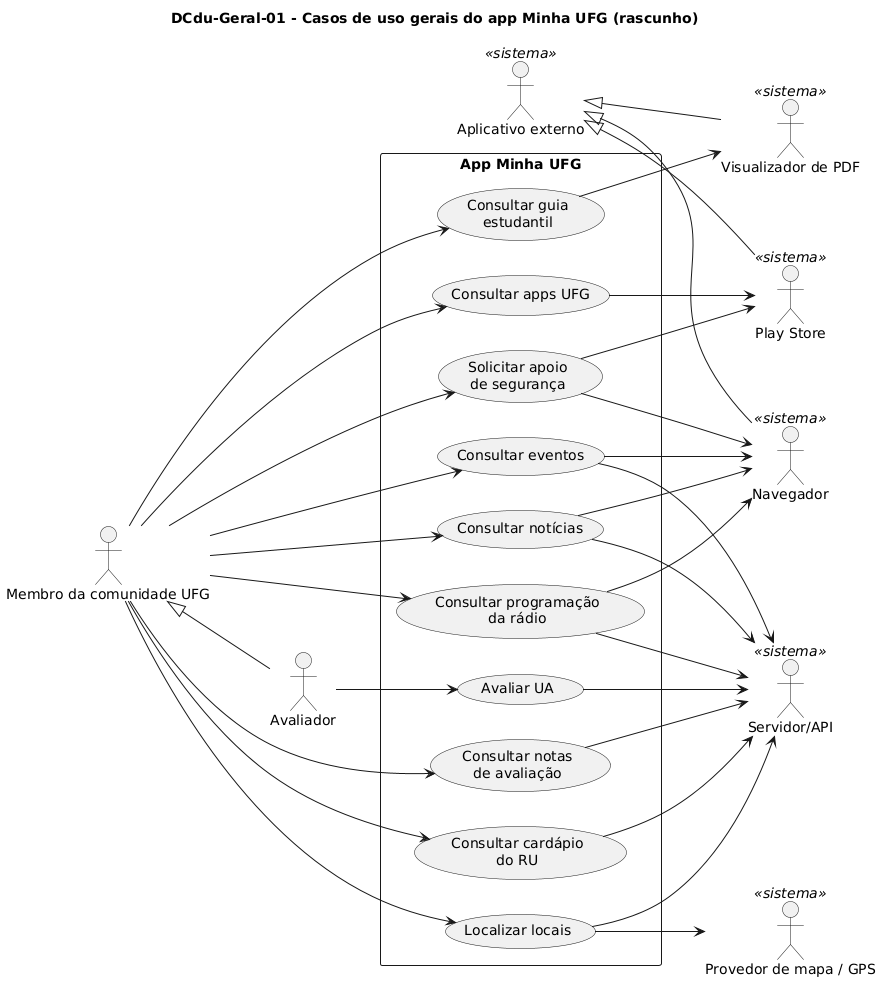
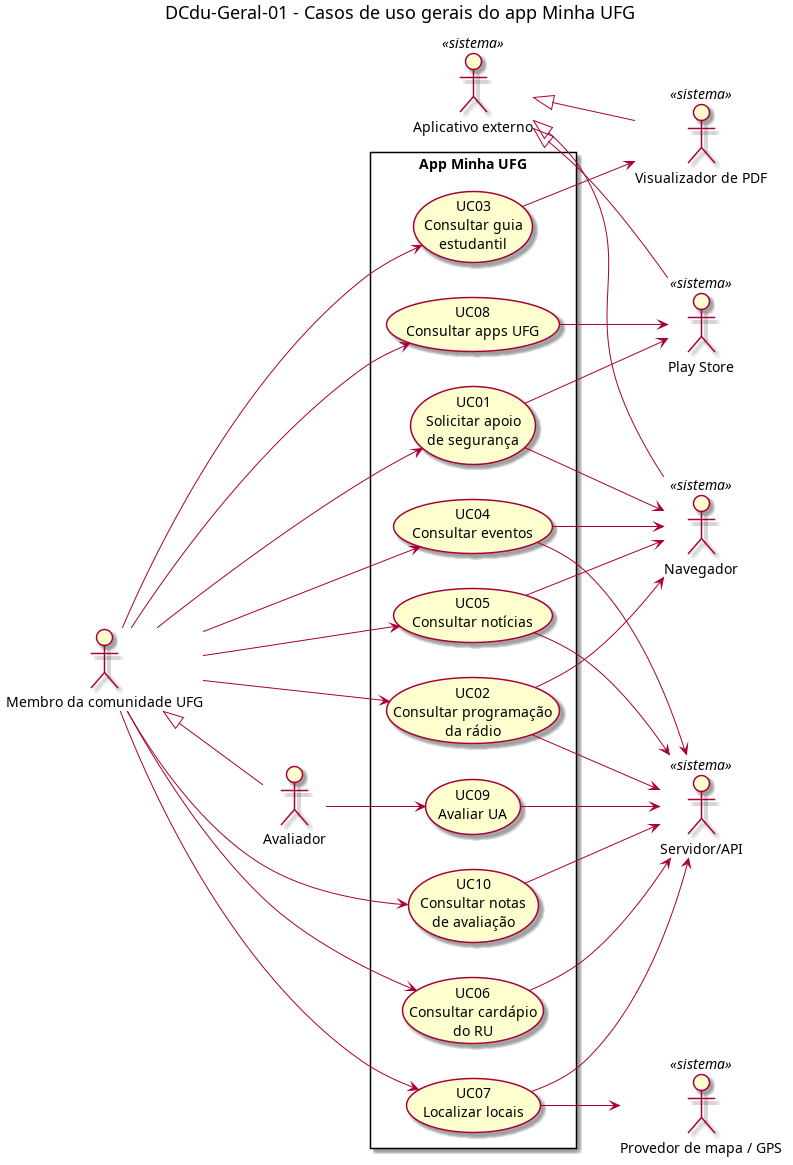
D-INT-03: fechamento do DCdu, DPac e DImp gerais e renumeração dos casos de uso

diff --git a/Geral/DCdu-Geral-01.md b/Geral/DCdu-Geral-01.md
@@ -6,7 +6,7 @@
 | **Título** | Casos de uso gerais do app Minha UFG |
 | **Autor(a)** | Pessoa D |
 | **Revisor(a)** | Pessoa C |
-| **Status** | Em produção (rascunho; versão final no D-INT-03) |
+| **Status** | Em revisão |
 | **Rastreia para** | `DCdu-Seguranca-01`, `DCdu-Radio-01`, `DCdu-Guia-01`, `DCdu-Eventos-01`, `DCdu-Noticias-01`, `DCdu-RU-01`, `DCdu-Locais-01`, `DCdu-AppsUFG-01`, `DCdu-AvalRegistrar-01`, `DCdu-AvalConsultar-01`, `DImp-Geral-01`, `DPac-Geral-01` |
 
 ## Diagrama
@@ -37,6 +37,23 @@ O ator abstrato Aplicativo externo agrupa todo redirecionamento para fora do app
 - A tela inicial é navegação, não objetivo do usuário; por isso não é caso de uso. Ela é modelada em `DIhc-Inicio-01` e `DEst-Inicio-01`.
 - O Painel web não interage com o app: ele alimenta o Servidor/API (cardápio, eventos, notícias, programação, dimensões e questões da avaliação). Por isso aparece só em `DImp-Geral-01`.
 - Apps UFG não acessa o Servidor/API, pois a lista é fixa (três apps).
+
+**Correspondência com os DCdu detalhados.** Cada caso de uso detalhado tem o código `UCnn.m`, em que `nn` é o macro deste diagrama (versão final fechada na integração, D-INT-03, em 02/11/2026). O nome do macro resume os casos detalhados e não precisa repeti-los.
+
+| Macro | DCdu detalhado | Casos de uso detalhados |
+|---|---|---|
+| UC01 Solicitar apoio de segurança | `DCdu-Seguranca-01` | UC01.1 Acessar central de segurança via web; UC01.2 Baixar aplicativo de segurança na Play Store |
+| UC02 Consultar programação da rádio | `DCdu-Radio-01` | UC02.1 Consultar programação da rádio; UC02.2 Trocar o dia da programação; UC02.3 Ouvir a rádio |
+| UC03 Consultar guia estudantil | `DCdu-Guia-01` | UC03.1 Consultar guia estudantil |
+| UC04 Consultar eventos | `DCdu-Eventos-01` | UC04.1 Consultar eventos por regional e data; UC04.2 Trocar o mês do calendário; UC04.3 Abrir a página do evento |
+| UC05 Consultar notícias | `DCdu-Noticias-01` | UC05.1 Consultar notícias de uma regional; UC05.2 Abrir a notícia |
+| UC06 Consultar cardápio do RU | `DCdu-RU-01` | UC06.1 Consultar o cardápio de uma refeição; UC06.2 Escolher o dia da semana |
+| UC07 Localizar locais | `DCdu-Locais-01` | UC07.1 Consultar lista de locais; UC07.2 Visualizar local no mapa; UC07.3 Centralizar em minha localização atual |
+| UC08 Consultar apps UFG | `DCdu-AppsUFG-01` | UC08.1 Visualizar catálogo de apps UFG; UC08.2 Abrir aplicativo na Play Store |
+| UC09 Avaliar UA | `DCdu-AvalRegistrar-01` | UC09.1 Escolher a unidade acadêmica a avaliar; UC09.2 Responder o questionário de qualidade; UC09.3 Enviar a avaliação; UC09.4 Validar o preenchimento |
+| UC10 Consultar notas de avaliação | `DCdu-AvalConsultar-01` | UC10.1 Consultar a nota da UFG e as médias por área CNPq; UC10.2 Consultar as notas das UAs de uma área; UC10.3 Consultar as notas de uma UA por dimensão |
+
+Os atores e as ligações com os atores secundários são os mesmos nos DCdu detalhados.
 
 ## Referências
 

diff --git a/Geral/DPac-Geral-01.md b/Geral/DPac-Geral-01.md
@@ -7,7 +7,7 @@
 | **Autor(a)** | Pessoa D |
 | **Revisor(a)** | Pessoa C |
 | **Status** | Em revisão |
-| **Rastreia para** | `DCdu-Geral-01`, `DImp-Geral-01`, `DCmp-Comum-01`, `DCmp-Seguranca-01`, `DCmp-Radio-01`, `DCmp-Guia-01`, `DCmp-Eventos-01`, `DCmp-Noticias-01`, `DCmp-RU-01`, `DCmp-Locais-01`, `DCmp-AppsUFG-01`, `DCmp-AvalRegistrar-01`, `DCmp-AvalConsultar-01`, `DIhc-Inicio-01` |
+| **Rastreia para** | `DCdu-Geral-01`, `DImp-Geral-01`, `DCmp-Comum-01`, `DCmp-Seguranca-01`, `DCmp-Radio-01`, `DCmp-Guia-01`, `DCmp-Eventos-01`, `DCmp-Noticias-01`, `DCmp-RU-01`, `DCmp-Locais-01`, `DCmp-AppsUFG-01`, `DCmp-AvalRegistrar-01`, `DCmp-AvalConsultar-01`, `DIhc-Inicio-01`, `DDados-Geral-01`, `DD-Geral-01` |
 
 ## Diagrama
 
@@ -25,7 +25,7 @@ O app é organizado em um pacote por funcionalidade, um pacote `Inicio` e um pac
 | `Seguranca`, `Locais`, `AppsUFG` | Funcionalidades da fatia B | B |
 | `Eventos`, `RU`, `Noticias`, `AvalRegistrar` | Funcionalidades da fatia C | C |
 | `Radio`, `Guia`, `AvalConsultar` | Funcionalidades da fatia D | D |
-| `Comum` | Componentes compartilhados (`DCmp-Comum-01`) | D |
+| `Comum` | Componentes compartilhados (`DCmp-Comum-01`) e entidades compartilhadas: `Regional` e `Campus` (dono da definição: C) e `Coordenada` (D) | D |
 
 **Dependências.**
 
@@ -39,7 +39,7 @@ O app é organizado em um pacote por funcionalidade, um pacote `Inicio` e um pac
 1. *A tela inicial fica num pacote `Inicio` próprio, não em `Comum`.* `Inicio` depende de todas as funcionalidades, enquanto `Comum` é dependido por elas. Juntá-los criaria dependência circular entre `Comum` e cada funcionalidade.
 2. *`Comum` não depende de nenhum outro pacote do app.* Isso o mantém reutilizável e estável: mudanças nas funcionalidades nunca o afetam.
 3. *Não há dependência entre pacotes de funcionalidades atuais.* Cada funcionalidade da versão 3.1.1 é independente; só a evolução (avaliação) depende de `Locais`.
-4. *Pendente para a integração (D-INT-03):* a localização das entidades Regional e Campus, de dono C, usadas por `Eventos`, `Noticias` e `Locais`. Novas dependências entre pacotes reveladas pelos DCmp de A, B e C também serão incorporadas nessa etapa.
+4. *`Regional` e `Campus` ficam no `Comum`* (integração, 02/11/2026), pois são usadas por `Eventos`, `Noticias` e `Locais`; a Pessoa C continua dona da definição (`DD-Eventos-01`). As associações são navegáveis só a partir das funcionalidades (`Evento → Regional`, `Noticia → Regional`, `Local → Campus`), então o `Comum` continua sem depender de nenhum pacote. A integração (`DDados-Geral-01`) não revelou outras dependências entre pacotes.
 
 ## Referências
 

diff --git a/IA/registro-D.md b/IA/registro-D.md
@@ -519,3 +519,28 @@ ANTHROPIC. **Claude Code**. Assistente de IA. Disponível em: https://claude.com
 ### Referência (ABNT)
 
 ANTHROPIC. **Claude Code**. Assistente de IA. Disponível em: https://claude.com/claude-code. Acesso em: 2 nov. 2026.
+
+## D-IA-21 – Fechamento dos modelos gerais (D-INT-03)
+
+- **IA:** Anthropic. Claude Code (Claude Opus 5.5). Assistente de IA.
+- **URL:** https://claude.com/claude-code
+- **Data de acesso:** 2 de novembro de 2026.
+- **Contexto fornecido:** `DCdu-Geral-01`, `DPac-Geral-01`, `DImp-Geral-01`, DCdu detalhados de B, C e D, DCla de Eventos, Notícias e Locais.
+- **Itens produzidos:** `DCdu-Geral-01` final (códigos dos macros e tabela de correspondência); renumeração dos casos de uso de Segurança (UC01.n), Rádio (UC02.n), Guia (UC03.1), Locais (UC07.n) e Apps UFG (UC08.n) nos DCdu e DAtv; `DPac-Geral-01` com `Regional` e `Campus` no Comum; `DImp-Geral-01` sem mudança.
+- **Uso da resposta:** a conferir pela Pessoa D; a Pessoa D avisa B e C da renumeração.
+
+### Prompt 1
+
+> já podemos ir para d-int-03? ou falta algo
+
+### Prompt 2
+
+> pode começar a d-int-03
+
+### Prompt 3
+
+> pode renumerar para ficar coerente. aviso o time depois. siga em frente
+
+### Referência (ABNT)
+
+ANTHROPIC. **Claude Code**. Assistente de IA. Disponível em: https://claude.com/claude-code. Acesso em: 2 nov. 2026.

diff --git a/Locais/DAtv-Locais-03.md b/Locais/DAtv-Locais-03.md
@@ -1,9 +1,9 @@
-# DAtv-Locais-03 – Atividades de UC03: centralizar em minha localização atual
+# DAtv-Locais-03 – Atividades de UC07.3: centralizar em minha localização atual
 
 | Campo | Valor |
 |---|---|
 | **Código** | `DAtv-Locais-03` |
-| **Título** | Atividades de UC03: centralizar em minha localização atual |
+| **Título** | Atividades de UC07.3: centralizar em minha localização atual |
 | **Autor(a)** | Maicon Brendo da Silva |
 | **Revisor(a)** | Revisor(a) a definir |
 | **Status** | Em produção |
@@ -17,7 +17,7 @@ Fonte: [`DAtv-Locais-03.puml`](DAtv-Locais-03.puml)
 
 ## Descrição
 
-O diagrama detalha o fluxo de atividades do caso de uso `UC03: Centralizar em minha localização atual`, modelando a integração do app Minha UFG com os sensores de geolocalização do aparelho móvel e com o provedor de mapa, estruturado em quatro raias: **Usuário**, **App**, **Android / GPS** e **Provedor de Mapa**.
+O diagrama detalha o fluxo de atividades do caso de uso `UC07.3: Centralizar em minha localização atual`, modelando a integração do app Minha UFG com os sensores de geolocalização do aparelho móvel e com o provedor de mapa, estruturado em quatro raias: **Usuário**, **App**, **Android / GPS** e **Provedor de Mapa**.
 
 ### Dinâmica das atividades
 

diff --git a/AppsUFG/DCdu-AppsUFG-01.md b/AppsUFG/DCdu-AppsUFG-01.md
@@ -26,7 +26,7 @@ O diagrama detalha o caso de uso macro UC08 "Consultar apps UFG" do `DCdu-Geral-
 
 ---
 
-### UC01 – Visualizar catálogo de apps UFG
+### UC08.1 – Visualizar catálogo de apps UFG
 
 - **Ator principal:** Membro da comunidade UFG.
 - **Pré-condição:** O usuário está na tela inicial do app Minha UFG e toca no cartão "Apps UFG".
@@ -41,11 +41,11 @@ O diagrama detalha o caso de uso macro UC08 "Consultar apps UFG" do `DCdu-Geral-
 
 ---
 
-### UC02 – Abrir aplicativo na Play Store
+### UC08.2 – Abrir aplicativo na Play Store
 
 - **Ator principal:** Membro da comunidade UFG.
 - **Ator secundário:** Play Store.
-- **Pré-condição:** O catálogo de aplicativos está visível em tela (estende `UC01`).
+- **Pré-condição:** O catálogo de aplicativos está visível em tela (estende `UC08.1`).
 - **Fluxo principal:**
   1. O usuário toca em qualquer região do cartão correspondente ao aplicativo desejado (*RU UFG*, *INVENTARIO PATRIMONIAL* ou *CS - CANDIDATO*).
   2. O aplicativo identifica o identificador de pacote do aplicativo selecionado e aciona o componente de integração externa (`ILinkExterno.abrirLoja(idPacote)`).

diff --git a/Locais/DAtv-Locais-02.md b/Locais/DAtv-Locais-02.md
@@ -1,9 +1,9 @@
-# DAtv-Locais-02 – Atividades de UC02: visualizar local no mapa
+# DAtv-Locais-02 – Atividades de UC07.2: visualizar local no mapa
 
 | Campo | Valor |
 |---|---|
 | **Código** | `DAtv-Locais-02` |
-| **Título** | Atividades de UC02: visualizar local no mapa |
+| **Título** | Atividades de UC07.2: visualizar local no mapa |
 | **Autor(a)** | Maicon Brendo da Silva |
 | **Revisor(a)** | Revisor(a) a definir |
 | **Status** | Em produção |
@@ -17,7 +17,7 @@ Fonte: [`DAtv-Locais-02.puml`](DAtv-Locais-02.puml)
 
 ## Descrição
 
-O diagrama detalha o fluxo de atividades do caso de uso `UC02: Visualizar local no mapa`, modelando a interação visual entre a aba de lista e a aba cartográfica através de três raias: **Usuário**, **App** e **Provedor de Mapa**.
+O diagrama detalha o fluxo de atividades do caso de uso `UC07.2: Visualizar local no mapa`, modelando a interação visual entre a aba de lista e a aba cartográfica através de três raias: **Usuário**, **App** e **Provedor de Mapa**.
 
 ### Dinâmica das atividades
 

diff --git a/Locais/DAtv-Locais-01.md b/Locais/DAtv-Locais-01.md
@@ -1,9 +1,9 @@
-# DAtv-Locais-01 – Atividades de UC01: consultar lista de locais
+# DAtv-Locais-01 – Atividades de UC07.1: consultar lista de locais
 
 | Campo | Valor |
 |---|---|
 | **Código** | `DAtv-Locais-01` |
-| **Título** | Atividades de UC01: consultar lista de locais |
+| **Título** | Atividades de UC07.1: consultar lista de locais |
 | **Autor(a)** | Maicon Brendo da Silva |
 | **Revisor(a)** | Revisor(a) a definir |
 | **Status** | Em produção |
@@ -17,7 +17,7 @@ Fonte: [`DAtv-Locais-01.puml`](DAtv-Locais-01.puml)
 
 ## Descrição
 
-O diagrama detalha o fluxo de atividades do caso de uso `UC01: Consultar lista de locais`, organizando as responsabilidades em três raias: **Usuário**, **App** e **Servidor/API**.
+O diagrama detalha o fluxo de atividades do caso de uso `UC07.1: Consultar lista de locais`, organizando as responsabilidades em três raias: **Usuário**, **App** e **Servidor/API**.
 
 ### Dinâmica das atividades
 

diff --git a/Locais/DCdu-Locais-01.md b/Locais/DCdu-Locais-01.md
@@ -27,7 +27,7 @@ O diagrama detalha o caso de uso macro UC07 "Localizar locais" do `DCdu-Geral-01
 
 ---
 
-### UC01 – Consultar lista de locais
+### UC07.1 – Consultar lista de locais
 
 - **Ator principal:** Membro da comunidade UFG.
 - **Ator secundário:** Servidor/API.
@@ -43,7 +43,7 @@ O diagrama detalha o caso de uso macro UC07 "Localizar locais" do `DCdu-Geral-01
 
 ---
 
-### UC02 – Visualizar local no mapa
+### UC07.2 – Visualizar local no mapa
 
 - **Ator principal:** Membro da comunidade UFG.
 - **Ator secundário:** Provedor de mapa / GPS.
@@ -57,7 +57,7 @@ O diagrama detalha o caso de uso macro UC07 "Localizar locais" do `DCdu-Geral-01
 
 ---
 
-### UC03 – Centralizar em minha localização atual
+### UC07.3 – Centralizar em minha localização atual
 
 - **Ator principal:** Membro da comunidade UFG.
 - **Ator secundário:** Provedor de mapa / GPS.

diff --git a/AppsUFG/DAtv-AppsUFG-01.md b/AppsUFG/DAtv-AppsUFG-01.md
@@ -17,7 +17,7 @@ Fonte: [`DAtv-AppsUFG-01.puml`](DAtv-AppsUFG-01.puml)
 
 ## Descrição
 
-O diagrama modela as atividades de consulta ao catálogo de aplicativos institucionais da UFG e a subsequente solicitação de abertura da página do aplicativo na Google Play Store, correspondendo aos casos de uso `UC01` e `UC02` de `DCdu-AppsUFG-01`.
+O diagrama modela as atividades de consulta ao catálogo de aplicativos institucionais da UFG e a subsequente solicitação de abertura da página do aplicativo na Google Play Store, correspondendo aos casos de uso `UC08.1` e `UC08.2` de `DCdu-AppsUFG-01`.
 
 O fluxo é dividido em três raias de responsabilidade:
 - **Usuário:** Interage com as telas do app Minha UFG e com a loja de aplicativos externa.

diff --git a/Seguranca/DAtv-Seguranca-01.md b/Seguranca/DAtv-Seguranca-01.md
@@ -17,7 +17,7 @@ Fonte: [`DAtv-Seguranca-01.puml`](DAtv-Seguranca-01.puml)
 
 ## Descrição
 
-O diagrama modela o fluxo de atividades dos casos de uso `UC01` e `UC02` de `DCdu-Seguranca-01`, organizando as responsabilidades em quatro raias:
+O diagrama modela o fluxo de atividades dos casos de uso `UC01.1` e `UC01.2` de `DCdu-Seguranca-01`, organizando as responsabilidades em quatro raias:
 - **Usuário:** Interage com as opções em tela e com os aplicativos externos do dispositivo.
 - **App:** Renderiza a tela de Segurança e delega a abertura externa para a interface `ILinkExterno` (`DCla-Comum-01`).
 - **Navegador:** Aplicativo externo acionado para exibir a versão web da central de segurança.

diff --git a/Guia/DAtv-Guia-01.md b/Guia/DAtv-Guia-01.md
@@ -17,7 +17,7 @@ Fonte: [`DAtv-Guia-01.puml`](DAtv-Guia-01.puml)
 
 ## Descrição
 
-Atividades do UC03 do `DCdu-Guia-01`, em quatro raias: Usuário, App, Android (seletor de apps) e Visualizador de PDF.
+Atividades do UC03.1 do `DCdu-Guia-01`, em quatro raias: Usuário, App, Android (seletor de apps) e Visualizador de PDF.
 
 O app só solicita a abertura: passa a URL externa do `guiaestudantil.pdf` e o tipo `application/pdf` ao componente LinkExterno do Comum (`ILinkExterno.abrirDocumento`, `DCla-Comum-01`). Quem baixa e exibe o PDF é o app escolhido. Falhas de download ou de abertura não retornam ao app; por isso o diagrama não tem ramo de erro.
 

diff --git a/Guia/DCdu-Guia-01.md b/Guia/DCdu-Guia-01.md
@@ -19,7 +19,7 @@ Fonte: [`DCdu-Guia-01.puml`](DCdu-Guia-01.puml)
 
 Detalha o caso de uso UC03 "Consultar guia estudantil" do `DCdu-Geral-01`. O Guia não tem tela própria: o cartão da tela inicial entrega o arquivo `guiaestudantil.pdf`, hospedado numa URL externa, a um app do aparelho escolhido pelo seletor de apps do Android. O ator secundário é o **Visualizador de PDF**, especialização de **Aplicativo externo**.
 
-**UC03 – Consultar guia estudantil**
+**UC03.1 – Consultar guia estudantil**
 
 - **Ator principal:** Membro da comunidade UFG (uso anônimo, sem login).
 - **Ator secundário:** Visualizador de PDF.
